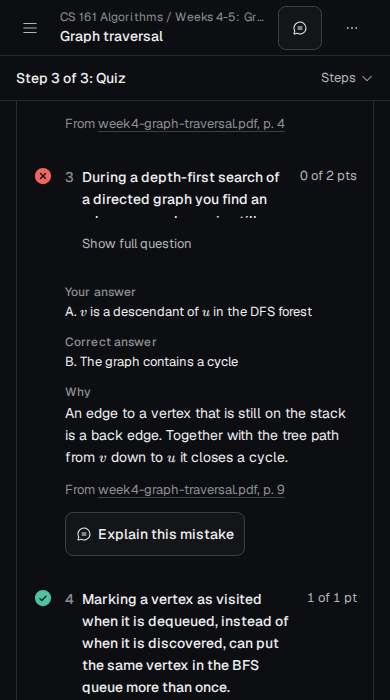
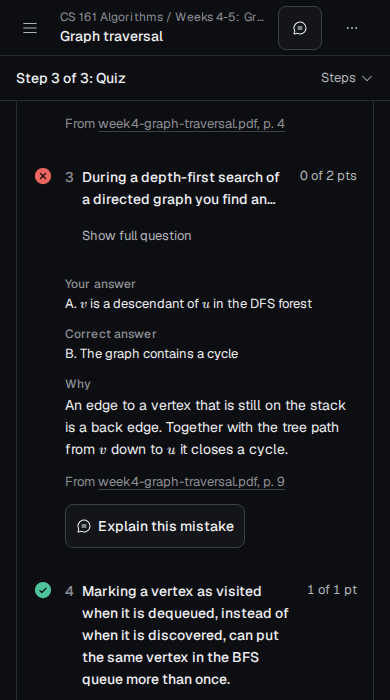
Landing on phones: framed hero preview, smooth steps, whole-line question clamp (#76)
* Landing on phones: one framed hero preview with no link out; steps open smoothly with their pictures already loaded; collapsed questions end on whole lines

* Landing steps: use the motion tokens (240 open, 180 close, as the wide layout)

* e2e: the map key and the exam preset line are read from the visible copy only (CI caught the hidden ones)

diff --git a/frontend/src/features/marketing/loop.tsx b/frontend/src/features/marketing/loop.tsx
@@ -105,6 +105,79 @@ function useLoopAutoplay(steps: number, zone: React.RefObject<HTMLElement | null
 }
 
 /**
+ * The phone list of steps. Each step is a button that opens its panel; the panel grows from no height (0fr to 1fr rows)
+ * instead of appearing at once. Closed panels stay in the page (inert, so not read or tabbed into), which lets their
+ * pictures load as the list scrolls into view rather than after the tap. Several can be open at a time, so opening a
+ * step never closes one above it and pulls the page up under the finger.
+ */
+function PhoneSteps({ steps }: { steps: LoopStep[] }) {
+  const [open, setOpen] = React.useState<ReadonlySet<number>>(() => new Set([0]))
+  const toggle = (index: number) =>
+    setOpen((previous) => {
+      const next = new Set(previous)
+      if (next.has(index)) next.delete(index)
+      else next.add(index)
+      return next
+    })
+  return (
+    <ol className="flex flex-col border-t border-border lg:hidden">
+      {steps.map((step, index) => {
+        const expanded = open.has(index)
+        return (
+          <li key={step.id} className="border-b border-border">
+            <h3>
+              <button
+                type="button"
+                id={`loop-step-${step.id}`}
+                aria-expanded={expanded}
+                aria-controls={`loop-step-panel-${step.id}`}
+                onClick={() => toggle(index)}
+                className="flex min-h-11 w-full items-center justify-between gap-4 rounded-chip py-4 text-left text-heading text-fg"
+              >
+                <span>
+                  <span aria-hidden="true" className="tabular mr-3 text-fg-3">
+                    {index + 1}
+                  </span>
+                  {step.title}
+                </span>
+                <CaretDown
+                  aria-hidden="true"
+                  className={cn('size-4 shrink-0 text-fg-3 transition-transform duration-240 ease-enter motion-reduce:transition-none', expanded && 'rotate-180')}
+                />
+              </button>
+            </h3>
+            <div
+              id={`loop-step-panel-${step.id}`}
+              role="region"
+              aria-labelledby={`loop-step-${step.id}`}
+              inert={!expanded}
+              className={cn(
+                'grid transition-[grid-template-rows,opacity] ease-enter motion-reduce:transition-none',
+                expanded ? 'grid-rows-[1fr] opacity-100 duration-240' : 'grid-rows-[0fr] opacity-0 duration-180'
+              )}
+            >
+              <div className="min-h-0 overflow-hidden">
+                <p className="max-w-[52ch] pb-1 text-reading text-fg-2">{step.text}</p>
+                <div className={cn(FRAME, 'mx-auto my-5 max-w-[420px] md:max-w-none')}>
+                  <Shot
+                    name={step.shot}
+                    mobile
+                    desktopMedia="(min-width: 768px) and (max-width: 1023px)"
+                    alt={step.alt}
+                    sizes={SLOT_SIZES.loopList}
+                    className="h-auto w-full"
+                  />
+                </div>
+              </div>
+            </div>
+          </li>
+        )
+      })}
+    </ol>
+  )
+}
+
+/**
  * The loop from files to exam day. On a wide screen it is a list of steps with one screenshot beside it
  * (a vertical tab list: arrow keys move between steps, and the open step explains itself). Once it is
  * in view it steps through the six by itself, once (see loop-autoplay.ts), with a pause button. On a
@@ -270,36 +343,9 @@ export function Loop({ steps }: { steps: LoopStep[] }) {
         </div>
       </div>
 
-      {/* On a phone the six steps are a short list; one opens at a time, with its text and picture, so the
-          page is six lines long before the visitor chooses to read more. The first is open. */}
-      <ol className="flex flex-col border-t border-border lg:hidden">
-        {steps.map((step, index) => (
-          <li key={step.id} className="border-b border-border">
-            <details name="loop-steps" open={index === 0} className="group">
-              <summary className="flex min-h-11 list-none items-center justify-between gap-4 rounded-chip py-4 text-heading text-fg marker:hidden [&::-webkit-details-marker]:hidden">
-                <span>
-                  <span aria-hidden="true" className="tabular mr-3 text-fg-3">
-                    {index + 1}
-                  </span>
-                  {step.title}
-                </span>
-                <CaretDown aria-hidden="true" className="size-4 shrink-0 text-fg-3 transition-transform duration-180 group-open:rotate-180" />
-              </summary>
-              <p className="max-w-[52ch] pb-1 text-reading text-fg-2">{step.text}</p>
-              <div className={cn(FRAME, 'mx-auto my-5 max-w-[420px] md:max-w-none')}>
-                <Shot
-                  name={step.shot}
-                  mobile
-                  desktopMedia="(min-width: 768px) and (max-width: 1023px)"
-                  alt={step.alt}
-                  sizes={SLOT_SIZES.loopList}
-                  className="h-auto w-full"
-                />
-              </div>
-            </details>
-          </li>
-        ))}
-      </ol>
+      {/* On a phone the six steps are a short list, each opening to its text and picture, so the page is six lines long
+          before the visitor chooses to read more. The first is open. */}
+      <PhoneSteps steps={steps} />
     </>
   )
 }

diff --git a/frontend/src/app/(marketing)/page.tsx b/frontend/src/app/(marketing)/page.tsx
@@ -9,8 +9,7 @@ import { EVAL_FACTS, FAQ, LINKS, LOOP_STEPS } from '@/features/marketing/content
 import { Loop } from '@/features/marketing/loop'
 import { SectionArrival, SectionLink } from '@/features/marketing/section-link'
 import { Shot } from '@/features/marketing/shot'
-import SCREENS from '@/features/marketing/screens.json'
-import { SLOT_SIZES, screenFile, type ScreensManifest } from '@/features/marketing/shot-sources'
+import { SLOT_SIZES } from '@/features/marketing/shot-sources'
 
 export const metadata: Metadata = {
   // "Margins" alone is a common word, so the home title also says what the product makes.
@@ -110,36 +109,21 @@ function Hero() {
           <HeroActions />
         </div>
         {/*
-          On a phone the preview is the top of the Plan page (Today) drawn edge to edge, so its 12px captions are 12px on a 390px
-          screen instead of shrinking with the page margins, with a link to the whole screen. From 768px it is the whole desktop crop.
+          On a phone the preview is the phone version of the Plan page in a screen-like frame: the page's top down to today's
+          first tasks, closed by a short fade, so it reads as one picture rather than a cut-off page. From 768px it is the
+          whole desktop crop.
         */}
-        <div className="max-md:-mx-4">
-          <div className="relative mx-auto w-full max-w-[420px] overflow-hidden rounded-card border border-border bg-surface max-md:max-h-[380px] max-md:max-w-none max-md:rounded-none max-md:border-x-0 md:max-w-none">
-            <Shot
-              name="plan"
-              mobile
-              eager
-              alt="The Margins plan page. Today lists a review and a quiz, and the days after it lead to the exam date."
-              sizes={SLOT_SIZES.hero}
-              mobileSizes="100vw"
-              className="h-auto w-full"
-            />
-            <div aria-hidden="true" className="pointer-events-none absolute inset-x-0 bottom-0 h-16 bg-gradient-to-t from-surface to-transparent md:hidden" />
-          </div>
-          <p className="mt-3 px-4 md:hidden">
-            {(['light', 'dark'] as const).map((theme) => (
-              <span key={theme} className={theme === 'light' ? 'dark:hidden' : 'hidden dark:inline'}>
-                <a
-                  href={screenFile('plan-mobile', theme, Math.max(...(SCREENS as ScreensManifest)['plan-mobile'].widths))}
-                  target="_blank"
-                  rel="noopener noreferrer"
-                  className={link}
-                >
-                  See the whole plan screen <ArrowUpRight aria-hidden="true" className="size-3.5" />
-                </a>
-              </span>
-            ))}
-          </p>
+        <div className="relative mx-auto w-full max-w-[420px] overflow-hidden rounded-card border border-border bg-surface max-md:aspect-[390/540] max-md:max-w-[340px] max-md:shadow-sm md:max-w-none">
+          <Shot
+            name="plan"
+            mobile
+            eager
+            alt="The Margins plan page. Today lists a review and a quiz, and the days after it lead to the exam date."
+            sizes={SLOT_SIZES.hero}
+            mobileSizes="340px"
+            className="h-auto w-full"
+          />
+          <div aria-hidden="true" className="pointer-events-none absolute inset-x-0 bottom-0 h-20 bg-gradient-to-t from-surface to-transparent md:hidden" />
         </div>
       </div>
     </section>

diff --git a/frontend/tests/e2e/landing.spec.ts b/frontend/tests/e2e/landing.spec.ts
@@ -94,13 +94,23 @@ test('on a phone every step shows its own phone-sized screenshot', async ({ page
   await expect(page.getByRole('tablist')).toBeHidden()
   const steps = page.locator('#how-it-works ol > li')
   await expect(steps).toHaveCount(6)
-  // One step is open at a time (the first); the rest are a line each until opened.
-  await expect(steps.locator('details[open]')).toHaveCount(1)
-  await steps.nth(2).locator('summary').click()
-  await expect(steps.locator('details[open]')).toHaveCount(1)
+  // The first step is open; the rest are a line each until opened.
+  const toggles = steps.locator('button[aria-expanded]')
+  await expect(toggles.and(page.locator('[aria-expanded="true"]'))).toHaveCount(1)
+  // A closed step's picture is already in the page and loaded once the list is in view, so opening it never shows an empty
+  // frame (the theme on show is the one that loads).
   await steps.nth(2).scrollIntoViewIfNeeded()
-  const image = steps.nth(2).locator('img:visible')
+  const loadedBeforeOpen = steps.nth(2).locator('picture:visible img')
+  await expect.poll(() => loadedBeforeOpen.evaluate((node: HTMLImageElement) => node.complete && node.naturalWidth > 0)).toBe(true)
+  await toggles.nth(2).click()
+  await expect(toggles.nth(2)).toHaveAttribute('aria-expanded', 'true')
+  // Opening a step leaves the one above it open, so nothing above the tapped step moves.
+  await expect(toggles.nth(0)).toHaveAttribute('aria-expanded', 'true')
+  await steps.nth(2).scrollIntoViewIfNeeded()
+  const image = steps.nth(2).locator('picture:visible img')
   await expect(image).toHaveCount(1)
+  // The panel finishes opening to the picture's full height.
+  await expect.poll(async () => (await steps.nth(2).getByRole('region').boundingBox())?.height ?? 0).toBeGreaterThan(300)
   // The phone picture is used (390 px page, 2x), and it is shown near its natural size, not shrunk to a thumbnail.
   await expect.poll(() => image.evaluate((node: HTMLImageElement) => node.complete && node.naturalWidth > 0)).toBe(true)
   const shown = await image.evaluate((node: HTMLImageElement) => node.getBoundingClientRect().width)

diff --git a/frontend/tests/e2e/map.spec.ts b/frontend/tests/e2e/map.spec.ts
@@ -117,7 +117,8 @@ test.describe('knowledge map', () => {
     await expect(nodeLink(page, 'Open addressing')).toHaveAccessibleName('Open addressing Not started Next up')
 
     // The key opens by itself the first time this browser sees a map, and is folded away after that.
-    const key = page.locator('details').filter({ has: page.getByText('Key', { exact: true }) })
+    // The list view has its own key, hidden while the graph shows; only the visible one is the student's.
+    const key = page.locator('details:visible').filter({ has: page.getByText('Key', { exact: true }) })
     await expect(key.getByText('Leads to')).toBeVisible()
     await page.reload()
     await expect(key.getByText('Key', { exact: true }).locator('visible=true').first()).toBeVisible()
@@ -723,7 +724,7 @@ test.describe('round 4: edges, repeated names, one status per row', () => {
     const confirmed = unit.locator('path', { has: page.locator('title', { hasText: 'Collisions needs Hash function' }) })
     await expect(confirmed).not.toHaveAttribute('stroke-dasharray', /./)
     await expect(confirmed).toHaveClass(/stroke-edge-confirmed/)
-    const key = page.locator('details').filter({ has: page.getByText('Key', { exact: true }) })
+    const key = page.locator('details:visible').filter({ has: page.getByText('Key', { exact: true }) })
     if (!(await key.evaluate((element) => (element as HTMLDetailsElement).open))) await key.getByText('Key', { exact: true }).click()
     await expect(key.getByText('Dashed: suggested, not confirmed')).toBeVisible()
     await expect(key.getByText(/Two different things/)).toBeVisible()

diff --git a/frontend/tests/e2e/mixed-practice-exam-length.spec.ts b/frontend/tests/e2e/mixed-practice-exam-length.spec.ts
@@ -39,7 +39,7 @@ test('a 20-minute mixed block opens the exam form with 20 minutes and 5 question
   await expect(page).toHaveURL(/\/exams\/new\?/)
   await expect(page.getByRole('heading', { level: 1, name: 'New mock exam' })).toBeVisible()
   // The preset line says what was asked for; the choices are behind Change settings.
-  await expect(page.getByTestId('exam-preset')).toContainText('5 questions, 20 min')
+  await expect(page.getByTestId('exam-preset').locator('visible=true')).toContainText('5 questions, 20 min')
   await page.getByRole('button', { name: 'Change settings' }).click()
   await expect(page.getByRole('radio', { name: '20 min', checked: true })).toBeVisible()
   await expect(page.getByRole('radio', { name: '5', exact: true, checked: true })).toBeVisible()
@@ -89,7 +89,7 @@ test('a 15-minute exam is written, shown with its limit and starts with a 15-min
   await signIn(page, DEMO_EMAIL)
   const course = `/courses/${demoIds().course}`
   await page.goto(`${course}/exams/new?minutes=15`)
-  await expect(page.getByTestId('exam-preset')).toContainText('15 min')
+  await expect(page.getByTestId('exam-preset').locator('visible=true')).toContainText('15 min')
   await page.getByRole('button', { name: 'Create exam' }).click()
   await expect(page).toHaveURL(/\/exams\/[0-9a-f-]{36}$/, { timeout: 180_000 })
   await expect(page.getByRole('heading', { name: 'Before you start' })).toBeVisible()

diff --git a/frontend/tests/e2e/r3-study.spec.ts b/frontend/tests/e2e/r3-study.spec.ts
@@ -162,7 +162,7 @@ test.describe('the mock exam', () => {
     await signUpAndIn(page, 'r3-exam', { own: true })
     const course = await createCourse(page, `R3 exam ${Date.now()}`, [{ name: 'Graphs' }, { name: 'Trees' }])
     await page.goto(`/courses/${course.courseId}/exams/new`)
-    await expect(page.getByTestId('exam-preset')).toContainText('20 questions, 1 hr, medium, balanced mix')
+    await expect(page.getByTestId('exam-preset').locator('visible=true')).toContainText('20 questions, 1 hr, medium, balanced mix')
     // The five question counts, seven limits, difficulty and mix are behind one button.
     const settings = page.getByRole('button', { name: 'Change settings' })
     await expect(settings).toHaveAttribute('aria-expanded', 'false')
@@ -171,7 +171,7 @@ test.describe('the mock exam', () => {
     await screenshotIfAsked(page, 'r3-exam-new-390x844')
     await settings.click()
     await page.getByRole('radio', { name: '30 min' }).click()
-    await expect(page.getByTestId('exam-preset')).toContainText('30 min')
+    await expect(page.getByTestId('exam-preset').locator('visible=true')).toContainText('30 min')
     await expect(page.getByRole('textbox', { name: 'Name' })).toBeVisible()
     await screenshotIfAsked(page, 'r3-exam-new-settings-390x844')
     // A topic with no pages linked says so beside its name, before the exam is written.

diff --git a/frontend/src/components/learning/review-item.tsx b/frontend/src/components/learning/review-item.tsx
@@ -190,7 +190,16 @@ export function ReviewItem({
           <div className="flex min-w-0 flex-1 items-start gap-2 text-body-strong text-fg">
             <span className="tabular text-fg-3">{number}</span>
             <div className="min-w-0 flex-1">
-              <div id={questionId} className={cn(longQuestion && !questionOpen && 'max-h-[3.25rem] overflow-hidden')}>
+              <div
+                id={questionId}
+                className={cn(
+                  longQuestion &&
+                    !questionOpen &&
+                    // Two whole lines, never a sliver of the third: plain text is clamped by line; a question with blocks
+                    // (a list, a formula) is cut by height and fades out over its last line instead.
+                    (blocks ? 'max-h-[3.25rem] overflow-hidden [mask-image:linear-gradient(to_bottom,black_45%,transparent)]' : 'line-clamp-2')
+                )}
+              >
                 {blocks ? <QuestionText compact>{questionText}</QuestionText> : <MathText>{questionText}</MathText>}
               </div>
               {longQuestion ? (

diff --git a/frontend/tests/e2e/past-exams.spec.ts b/frontend/tests/e2e/past-exams.spec.ts
@@ -78,7 +78,7 @@ test('the form shows "Match my past exams" on, and the choice reaches the exam j
   await signIn(page, email)
   await page.goto(`/courses/${courseId}/exams/new`)
   // The size, time, difficulty, mix and style are behind Change settings; the preset line says the style is on.
-  await expect(page.getByTestId('exam-preset')).toContainText('in the style of your past exams')
+  await expect(page.getByTestId('exam-preset').locator('visible=true')).toContainText('in the style of your past exams')
   await page.getByRole('button', { name: 'Change settings' }).click()
   const toggle = page.getByRole('checkbox', { name: /Match my past exams/ })
   await expect(toggle).toBeChecked()
